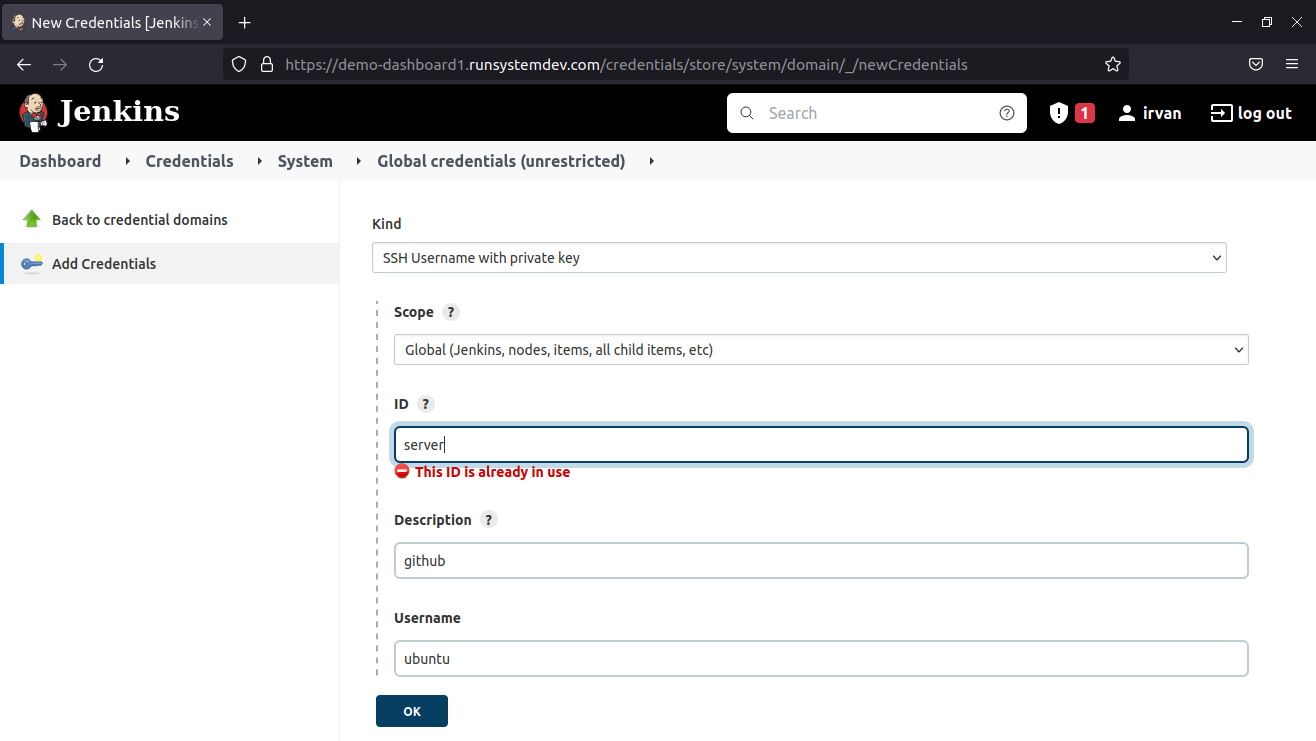
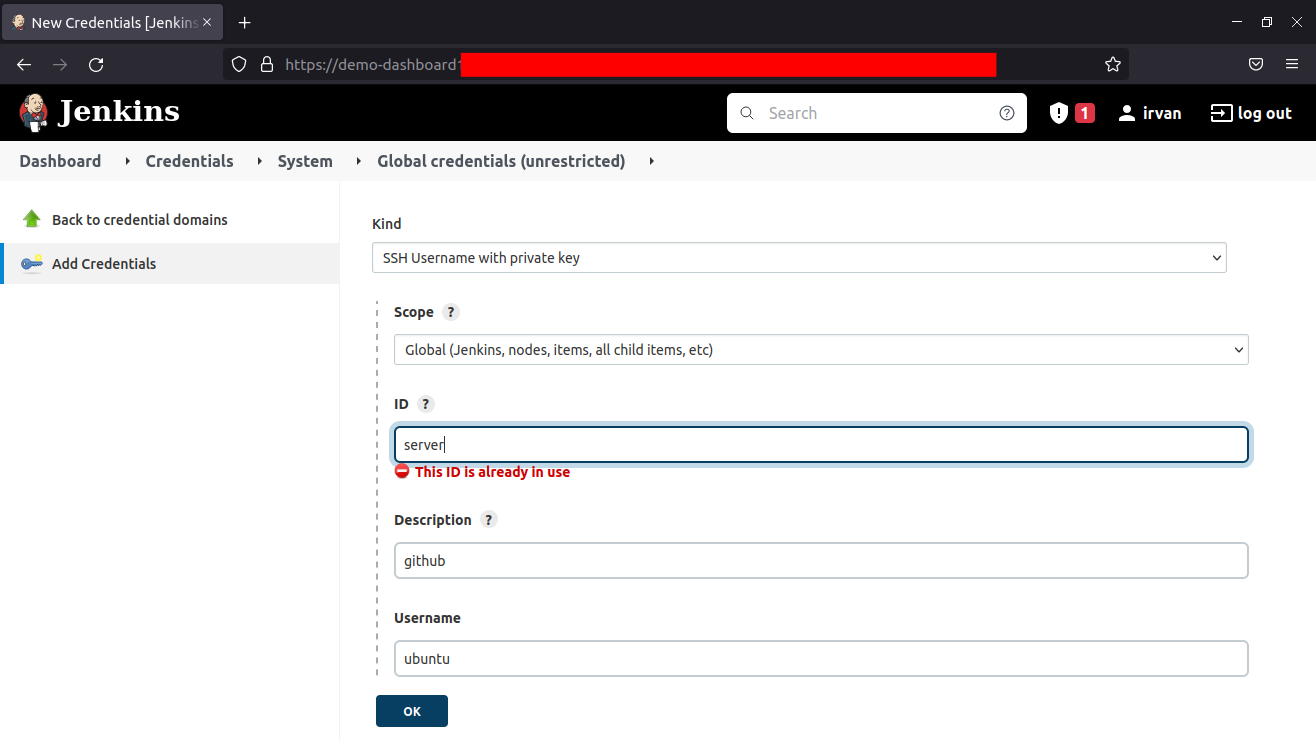
final

Changed region(s): [[0.3427, 0.0621, 0.7789, 0.1242]]

diff --git a/README.md b/README.md
@@ -14,9 +14,9 @@ Sebelumnya saya mohon maaf mengganggu waktu dari Pak Budi, Pak Tedi, dan Bu Cahy
 
 ### Automated Deployment with Jenkins
 
-- Jenkins berjalan di port 8080 dan saya menggunakan domain `demo-dashboard1.runsystemdev.com` agar jenkins dapat mengakses https dan melakukan webhook ke repo, disini saya menggunakan repo GitHub.
+- Jenkins berjalan di port 8080 dan saya menggunakan domain `...` agar jenkins dapat mengakses https dan melakukan webhook ke repo, disini saya menggunakan repo GitHub.
 
-- login dengan username dan password yang telah dibuat. username: irvan & pass: irvan
+- login dengan username dan password yang telah dibuat. username: ... & pass: ...
 
 <p align="center"><img src="pictures/3.png"></p>
 
